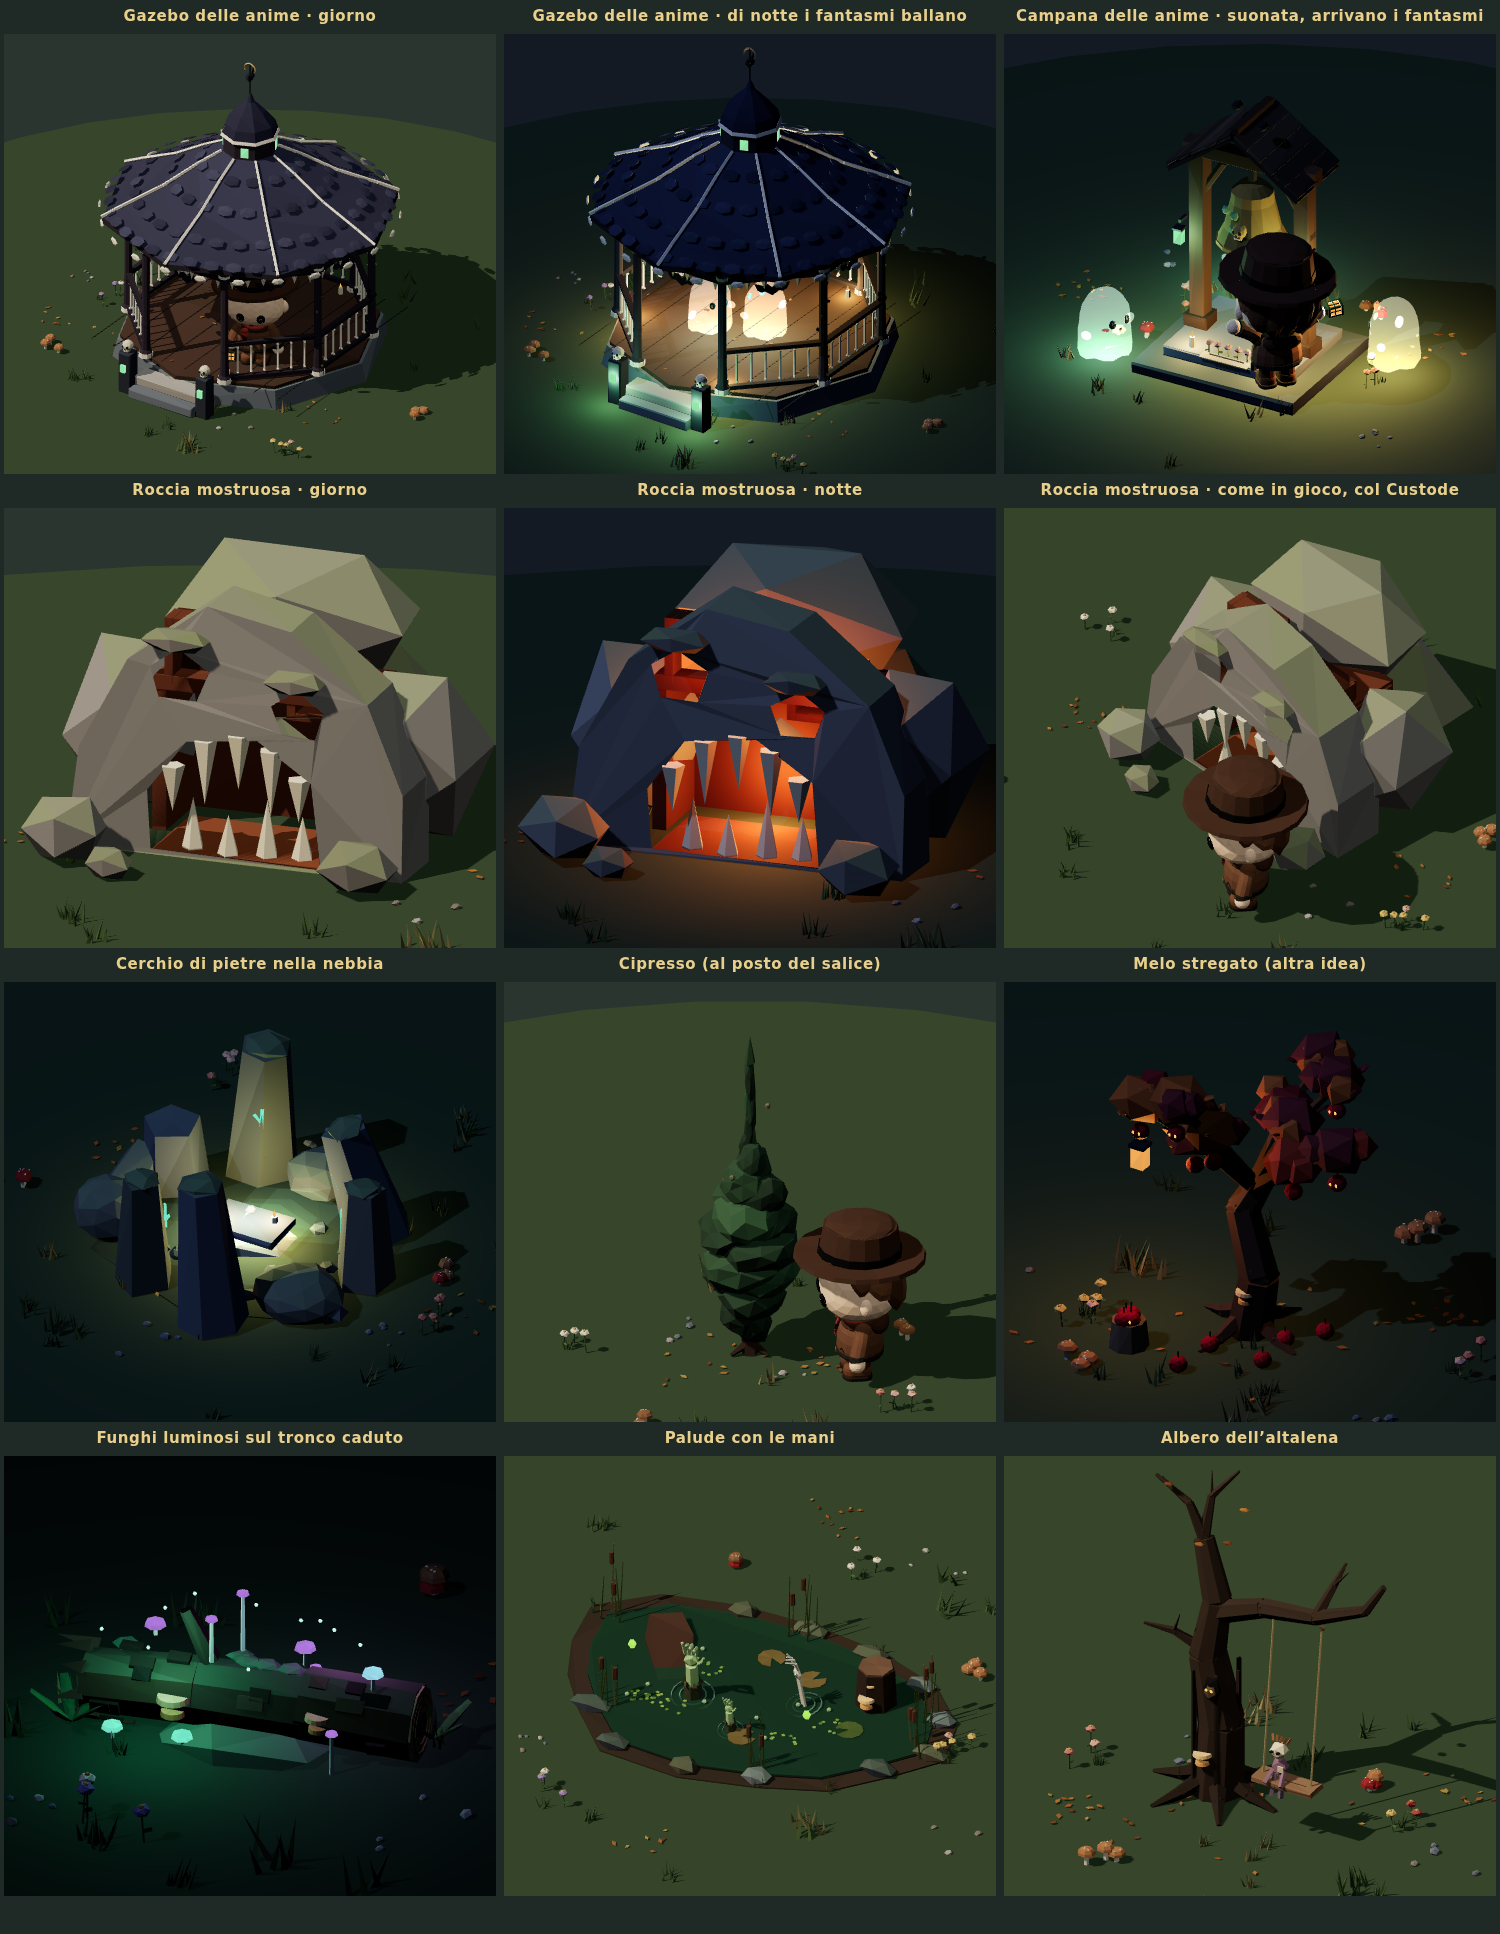
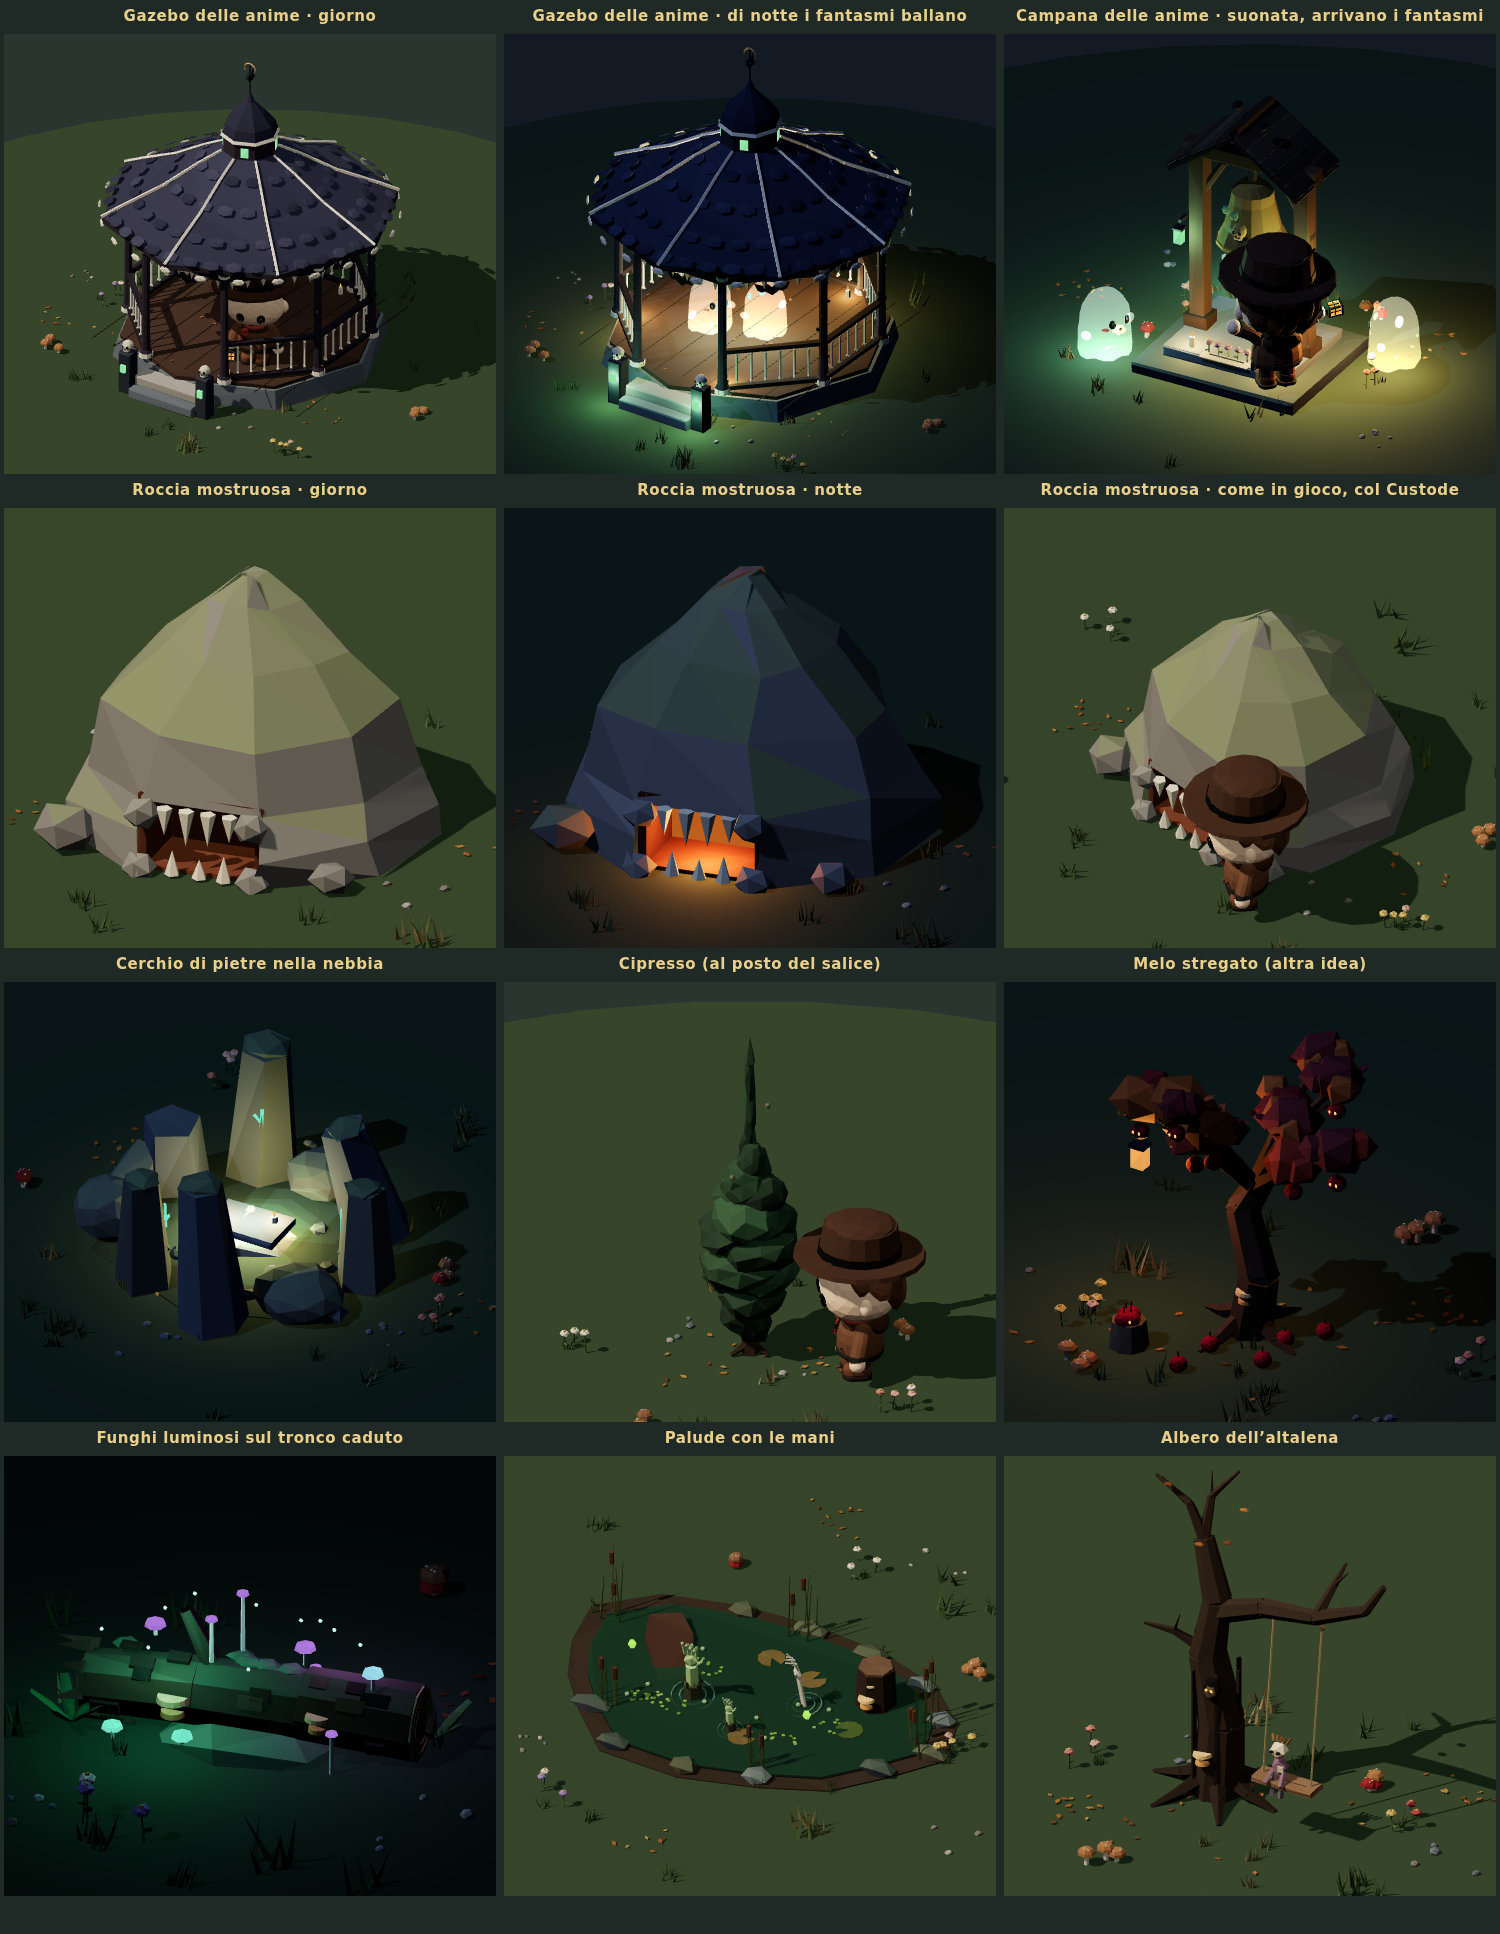
Anteprima: roccia mostruosa come montagnola con la bocca-caverna
Montagnola tonda e irregolare di roccia a facce basse, muschio in cima;
alla base, davanti, una piccola caverna a forma di bocca (angoli
arrotondati da quattro sassi, quattro zanne sopra e tre sotto), calda
dentro e accesa di notte. Due sassi e un po' d'erba.

Claude-Session: https://claude.ai/code/session_01U6u5RojYrwYjZd8sSRU7em

Changed region(s): [[0.0, 0.2792, 0.644, 0.4964], [0.7053, 0.2792, 1.0, 0.4654], [0.7973, 0.4343, 0.828, 0.4654]]

diff --git a/Prototype-3d/src/render/lowpoly/newItems2.ts b/Prototype-3d/src/render/lowpoly/newItems2.ts
@@ -475,62 +475,42 @@ export function witchAppleLP(lit = true): LPModel {
 }
 
 /**
- * Roccia mostruosa (3×2), versione semplice: una cupola di pochi grossi
- * blocchi, due orbite scavate e una bocca-caverna con poche zanne grandi;
- * tre massi davanti. Di notte occhi e gola si accendono.
+ * Roccia mostruosa (3×3): una montagnola tonda di roccia a facce basse, col
+ * muschio in cima; alla base, davanti, una piccola caverna a forma di bocca
+ * con qualche zanna. Di notte la bocca si accende da dentro.
  */
 export function fangRockLP(night: boolean): LPModel {
   const lp = new LP(`new2:fang:${night}`);
   const r = lp.rng;
-  const ROCK = '#8a8682', ROCK2 = '#7a7672';
-  const mossy = { topTint: '#73843c', topAmount: 0.45 };
-  const chunk = (x: number, y: number, z: number, sx: number, sy: number, sz: number, col = ROCK) =>
-    lp.blob(x, y, z, sx, sy, sz, col, { detail: 0, vary: 0.06, jitter: Math.min(sx, sy, sz) * 0.2, ao: 0.25, ...mossy });
-  const FZ = 0.3;
-  // grotta dietro la bocca (calda) — la facciata occupa z da -0,2 a 0,3
-  const CAVE = night ? '#5a2e18' : '#6a3c26', FLOOR = night ? '#6e3a1c' : '#80492a';
-  lp.box(0, 0, -0.1, 1.2, 0.03, 0.75, FLOOR, { jitter: 0 });
-  lp.box(0, 0, -0.8, 1.45, 1.05, 0.1, CAVE, { jitter: 0 });
-  for (const sx of [-1, 1]) lp.box(sx * 0.72, 0, -0.5, 0.1, 1.05, 0.6, CAVE, { jitter: 0 });
-  lp.box(0, 0.98, -0.5, 1.5, 0.1, 0.62, CAVE, { jitter: 0 });
-  // facciata: profilo a cupola con la bocca e le due orbite
-  const F = new THREE.Shape();
-  F.moveTo(-1.2, 0); F.lineTo(-1.1, 0.7); F.lineTo(-0.75, 1.35); F.lineTo(-0.2, 1.75); F.lineTo(0.4, 1.65); F.lineTo(0.95, 1.2); F.lineTo(1.2, 0.6); F.lineTo(1.2, 0); F.closePath();
-  const mouth = new THREE.Path();
-  mouth.moveTo(-0.6, 0.03); mouth.lineTo(-0.62, 0.45); mouth.lineTo(-0.35, 0.82); mouth.lineTo(0.15, 0.88); mouth.lineTo(0.55, 0.62); mouth.lineTo(0.6, 0.03); mouth.lineTo(-0.6, 0.03);
-  F.holes.push(mouth);
-  const EYES: Array<[number, number, number, number]> = [[-0.4, 1.25, 0.22, 0.19], [0.45, 1.07, 0.2, 0.17]];
-  for (const [cx, cy, rx, ry] of EYES) {
-    const p = new THREE.Path();
-    for (let k = 0; k <= 5; k++) { const a = -(k / 5) * Math.PI * 2 + 0.3; const x = cx + Math.cos(a) * rx, y = cy + Math.sin(a) * ry; if (k) p.lineTo(x, y); else p.moveTo(x, y); }
-    F.holes.push(p);
-  }
-  lp.push([0, 0, FZ - 0.25]).extrude(F, 0.5, ROCK, { vary: 0.06, jitter: 0.03, ao: 0.3, curve: 2, ...mossy }).pop();
-  // orbite: incavo caldo dietro (di notte brilla)
-  for (const [cx, cy, rx, ry] of EYES) {
-    lp.box(cx, cy - ry * 1.2, -0.4, rx * 2.4, ry * 2.4, 0.06, night ? '#ff8a3a' : '#4a2a1c', night ? { bucket: 'glow', jitter: 0 } : { jitter: 0 });
-    for (const sx of [-1, 1]) lp.box(cx + sx * rx * 1.15, cy - ry * 1.2, -0.3, 0.06, ry * 2.4, 0.2, CAVE, { jitter: 0 });
-    lp.box(cx, cy - ry * 1.2, -0.3, rx * 2.4, 0.05, 0.2, CAVE, { jitter: 0 });
-    lp.box(cx, cy + ry * 1.2 - 0.05, -0.3, rx * 2.4, 0.05, 0.2, CAVE, { jitter: 0 });
-    chunk(cx, cy + ry + 0.08, FZ + 0.05, rx * 1.2, 0.09, 0.14, ROCK2); // arcata
-  }
-  // volume dietro: quattro grossi blocchi
-  chunk(0.0, 1.35, -0.95, 0.95, 0.55, 0.55);
-  chunk(0.0, 0.55, -1.3, 1.2, 0.6, 0.4, ROCK2);
-  for (const sx of [-1, 1]) chunk(sx * 1.0, 0.6, -0.55, 0.45, 0.65, 0.6);
-  // zanne grandi: cinque dall'arco, quattro dal pavimento
-  const TOOTH = '#d8cdb4';
-  for (const [x, y, h] of [[-0.45, 0.6, 0.32], [-0.22, 0.8, 0.45], [0.02, 0.86, 0.38], [0.25, 0.78, 0.46], [0.45, 0.6, 0.3]] as const)
-    lp.push([x, y + 0.03, FZ - 0.02], 0, Math.PI).cyl(0, 0, 0, 0.085, 0.0, h, 5, TOOTH, { jitter: 0, vary: 0.05 }).pop();
-  for (const [x, z, h] of [[-0.35, 0.15, 0.36], [-0.08, 0.2, 0.28], [0.18, 0.15, 0.4], [0.42, 0.12, 0.3]] as const)
-    lp.cyl(x, 0.02, z, 0.08, 0.0, h, 5, TOOTH, { jitter: 0, vary: 0.05 });
-  // tre massi davanti e un po' d'erba
-  chunk(-1.1, 0.22, 0.6, 0.32, 0.25, 0.28);
-  chunk(1.0, 0.18, 0.62, 0.28, 0.2, 0.25, ROCK2);
-  chunk(-0.7, 0.1, 0.85, 0.18, 0.12, 0.15, ROCK2);
-  for (let i = 0; i < 6; i++) { const a = r.range(0, 6.28); grassTuft(lp, Math.cos(a) * 1.35, Math.sin(a) * 0.85 + 0.1, 1.1, ['#6a7a34', '#55603a']); }
-  lp.light(0, 0.35, -0.45, '#ff9a4a', night ? 0.9 : 0.6, 3, 0.35, night ? 0.8 : 0.3);
-  if (night) for (const [cx, cy] of EYES) lp.light(cx, cy, FZ - 0.2, '#ff8a3a', 0.35, 2, 0.3, 0.5);
+  const ROCK = '#86827d';
+  const o = { vary: 0.08, jitter: 0.14, ao: 0.3, topTint: '#73843c', topAmount: 0.5 };
+  const v = (pts: Array<[number, number]>) => pts.map(([x, y]) => new THREE.Vector2(x, y));
+  const SEG = 9, GAP = (40 * Math.PI) / 180; // la bocca occupa uno spicchio di 40° davanti, in basso
+  // anello basso con l'apertura davanti, cupola sopra intera (stessi vertici sul bordo)
+  lp.push([0, 0, 0], 0, 0, 0, [1.0, 1.0, 0.92]);
+  lp.add(new THREE.LatheGeometry(v([[1.32, 0], [1.29, 0.26], [1.22, 0.52]]), SEG - 1, GAP / 2, Math.PI * 2 - GAP), ROCK, o);
+  lp.pop();
+  lp.push([0, 0, 0], 0, 0, 0, [1.0, 1.0, 0.92]);
+  lp.add(new THREE.LatheGeometry(v([[1.22, 0.52], [1.0, 0.95], [0.66, 1.35], [0.3, 1.68], [0.06, 1.84], [0, 1.86]]), SEG, GAP / 2, Math.PI * 2), ROCK, o);
+  lp.pop();
+  // dentro la bocca: una piccola grotta calda (pavimento, pareti, volta, fondo)
+  const IN = night ? '#5a2e18' : '#5e3624', FLOOR = night ? '#7a401e' : '#73422a';
+  const zf = 1.0, zb = 0.45;
+  lp.box(0, 0, (zf + zb) / 2, 0.86, 0.03, zf - zb, FLOOR, { jitter: 0 });
+  lp.box(0, 0, zb, 0.9, 0.55, 0.06, night ? '#c8641e' : IN, night ? { bucket: 'glow', jitter: 0 } : { jitter: 0 });
+  for (const sx of [-1, 1]) lp.box(sx * 0.43, 0, (zf + zb) / 2, 0.06, 0.55, zf - zb, IN, { jitter: 0 });
+  lp.box(0, 0.5, (zf + zb) / 2, 0.9, 0.06, zf - zb, IN, { jitter: 0 });
+  // zanne: quattro che scendono dal bordo di sopra, tre che salgono dal pavimento
+  const TOOTH = '#ddd3bc';
+  // labbra di roccia agli angoli: la bocca si arrotonda
+  for (const [x, y] of [[-0.4, 0.45], [0.4, 0.45], [-0.42, 0.05], [0.42, 0.05]] as const) lp.blob(x, y, 1.1, 0.13, 0.12, 0.1, ROCK, { vary: 0.06, jitter: 0.03 });
+  for (const [x, h] of [[-0.24, 0.2], [-0.08, 0.26], [0.08, 0.24], [0.24, 0.19]] as const) lp.push([x, 0.5, 1.08], 0, Math.PI).cyl(0, 0, 0, 0.06, 0, h, 5, TOOTH, { jitter: 0 }).pop();
+  for (const [x, h] of [[-0.18, 0.18], [0.02, 0.14], [0.2, 0.19]] as const) lp.cyl(x, 0.02, 1.08, 0.055, 0, h, 5, TOOTH, { jitter: 0 });
+  // due sassi alla base e un po' d'erba
+  lp.blob(-1.05, 0.15, 0.85, 0.24, 0.18, 0.22, '#7a7672', { vary: 0.06, jitter: 0.04, topTint: '#73843c', topAmount: 0.4 });
+  lp.blob(0.95, 0.1, 0.95, 0.16, 0.12, 0.15, '#7a7672', { vary: 0.06, jitter: 0.03 });
+  for (let i = 0; i < 7; i++) { const a = r.range(0, 6.28); grassTuft(lp, Math.sin(a) * 1.4, Math.cos(a) * 1.4, 1.1, ['#6a7a34', '#55603a']); }
+  lp.light(0, 0.3, 0.85, '#ff9a4a', night ? 0.8 : 0.4, 2.6, 0.35, night ? 0.7 : 0.3);
   return lp.build();
 }
 

diff --git a/Prototype-3d/src/proto/items.ts b/Prototype-3d/src/proto/items.ts
@@ -270,7 +270,7 @@ function bellRung(): THREE.Group {
   return g;
 }
 
-function boulder(night: boolean): THREE.Group { return group(inst(M.fangRockLP(night)), lawn(1.7, 2.4, 16, 21)); }
+function boulder(night: boolean): THREE.Group { return group(inst(M.fangRockLP(night)), lawn(1.65, 2.4, 16, 21)); }
 
 function witch2(): THREE.Group {
   const w = witch(); w.position.set(0.85, 0, 0.0); w.rotation.y = -0.65;
@@ -404,8 +404,8 @@ const SETS: Record<string, Panel[]> = {
     { title: 'Gazebo delle anime · giorno', yaw: 0.6, zoom: 2.7, center: [0, 1.25, 0], build: () => gazebo2(false) },
     { title: 'Gazebo delle anime · di notte i fantasmi ballano', night: true, dusk: true, yaw: 0.6, zoom: 2.5, center: [0, 1.25, 0], build: () => gazebo2(true) },
     { title: 'Campana delle anime · suonata, arrivano i fantasmi', night: true, dusk: true, yaw: 0.5, zoom: 2.0, center: [0, 1.1, 0], build: bellRung },
-    { title: 'Roccia mostruosa · giorno', yaw: 0.35, pitch: 0.32, zoom: 1.45, center: [0, 0.85, 0], build: () => boulder(false) },
-    { title: 'Roccia mostruosa · notte', night: true, dusk: true, yaw: 0.35, pitch: 0.32, zoom: 1.45, center: [0, 0.85, 0], build: () => boulder(true) },
+    { title: 'Roccia mostruosa · giorno', yaw: 0.35, pitch: 0.4, zoom: 1.5, center: [0, 0.7, 0], build: () => boulder(false) },
+    { title: 'Roccia mostruosa · notte', night: true, dusk: true, yaw: 0.35, pitch: 0.4, zoom: 1.5, center: [0, 0.7, 0], build: () => boulder(true) },
     { title: 'Roccia mostruosa · come in gioco, col Custode', yaw: Math.PI / 4, pitch: 0.7, zoom: 1.9, center: [0, 0.7, 0.2], build: () => group(boulder(false), char('custode', 'idle', [1.0, 0, 1.25], -0.7)) },
     { title: 'Cerchio di pietre nella nebbia', night: true, dusk: true, yaw: 0.5, pitch: 0.6, zoom: 1.75, center: [0, 0.4, 0], build: () => group(inst(M.stoneCircleLP()), lawn(1.5, 2.3, 18, 14)) },
     { title: 'Cipresso (al posto del salice)', yaw: 0.55, zoom: 1.8, center: [0, 1.4, 0], build: () => group(inst(M.cypressLP()), lawn(0.6, 1.6, 14, 15), char('custode', 'idle', [0.95, 0, -0.2], -0.9)) },
@@ -431,8 +431,8 @@ const SETS: Record<string, Panel[]> = {
     { title: 'Pupazzo di neve scheletro', yaw: 0.45, pitch: 0.35, zoom: 0.8, center: [0, 0.7, 0], build: snowman2 },
   ],
   '8': [
-    { title: 'Roccia mostruosa · giorno', yaw: 0.35, pitch: 0.32, zoom: 1.45, center: [0, 0.85, 0], build: () => boulder(false) },
-    { title: 'Roccia mostruosa · notte', night: true, dusk: true, yaw: 0.35, pitch: 0.32, zoom: 1.45, center: [0, 0.85, 0], build: () => boulder(true) },
+    { title: 'Roccia mostruosa · giorno', yaw: 0.35, pitch: 0.4, zoom: 1.5, center: [0, 0.7, 0], build: () => boulder(false) },
+    { title: 'Roccia mostruosa · notte', night: true, dusk: true, yaw: 0.35, pitch: 0.4, zoom: 1.5, center: [0, 0.7, 0], build: () => boulder(true) },
     { title: 'Roccia mostruosa · come in gioco, col Custode', yaw: Math.PI / 4, pitch: 0.7, zoom: 1.9, center: [0, 0.7, 0.2], build: () => group(boulder(false), char('custode', 'idle', [1.75, 0, 0.85], -0.8)) },
   ],
 };
